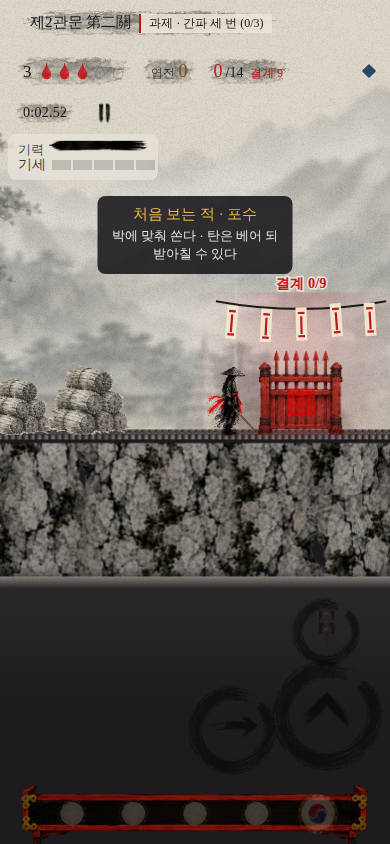
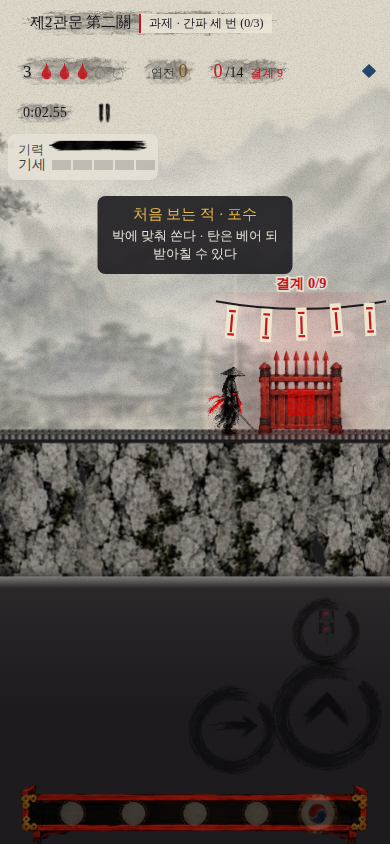
Rest stage peddler sells breath for coin, boss unstick in arena, steeper tree costs, fix 비급첩 seal screen, sparser ink-toned props, pet sheet white edges cleaned
Claude-Session: https://claude.ai/code/session_01Rc1cVb1vkCQfdutHoe7fgf

Changed region(s): [[0.0, 0.4313, 0.3385, 0.5237], [0.1538, 0.1232, 0.1846, 0.154]]

diff --git a/js/game.js b/js/game.js
@@ -2,7 +2,7 @@
 (() => {
 "use strict";
 const T = 32;
-const ASSET_V = "141";   // bump when any picture changes: the service worker then fetches the new json and webp together
+const ASSET_V = "142";   // bump when any picture changes: the service worker then fetches the new json and webp together
 const $ = id => document.getElementById(id);
 const cv = $("cv"); let ctx = cv.getContext("2d", { alpha: false });   // let: the ground is baked by pointing ctx at an offscreen canvas for a moment   // opaque canvas: cheaper to composite on phones
 let W = 0, H = 0, DPR = 1, SCALE = 1;
@@ -952,17 +952,17 @@ function loadMap(map, pal, hints) {
       const set = MD_PROPS[lv.md], sh = "md" + lv.md, big = set.filter(o => o[2] === "b"), small = set.filter(o => o[2] !== "b");
       const busy = [[lv.start && lv.start.x, 4], [lv.exit && lv.exit.x, 4], ...lv.cps.map(c => [c.x, 2]), ...lv.defs.map(d => [d.tx * T + 16, 2]), ...lv.chests.map(c => [c.x, 3]), ...lv.lamps.map(l => [l.x, 2])].filter(v => v[0] != null);
       const freeAt = x => !busy.some(([b, r]) => Math.abs(b - (x * T + 16)) < r * T);
-      for (let x = 4, last = -99; x < w - 6; x++) {
+      let scenes = 0; for (let x = 4, last = -99; x < w - 6; x++) {
         const y = surf(x, 1); if (y < 0) continue; let n = 0; while (x + n < w && surf(x + n, 1) === y && tile(x + n, y - 1) === 0 && tile(x + n, y - 2) === 0) n++;
-        if (n < 5 || x - last < 9 || rnd() > .8) { x += Math.max(0, n - 1); continue; }
+        if (n < 6 || x - last < 24 || scenes >= 3 || rnd() > .55) { x += Math.max(0, n - 1); continue; }   // a few quiet scenes per gate, never a clutter
         const wallR = tile(x + n, y - 1) === 1, wallL = tile(x - 1, y - 1) === 1, toR = wallR || (!wallL && rnd() < .5);   // lean the scene against the rock if one side rises
         const cand = []; for (let k = 1; k < n - 1; k++) cand.push(toR ? x + n - 1 - k : x + k);
-        const pick = [big.length && rnd() < .8 ? big[(rnd() * big.length) | 0] : null, small[(rnd() * small.length) | 0], rnd() < .45 ? small[(rnd() * small.length) | 0] : null].filter(Boolean);
+        const pick = [big.length && rnd() < .7 ? big[(rnd() * big.length) | 0] : small[(rnd() * small.length) | 0], rnd() < .35 ? small[(rnd() * small.length) | 0] : null].filter(Boolean);
         let placed = 0, ci = 0;
         for (const [i, hh] of pick) { const H = Math.round(hh * (1.1 + rnd() * .25)), wt = Math.max(1, Math.round((SPR[sh] && SPR[sh].f[i] ? SPR[sh].f[i].w * H / SPR[sh].f[i].h : H * .8) / T * .55));
           while (ci < cand.length && !freeAt(cand[ci])) ci++; if (ci >= cand.length) break;
           if (put(sh, i, cand[ci], y, H, { flip: rnd() < .5 })) placed++; ci += wt + 1; }
-        if (placed) last = x + n; x += n - 1; } }
+        if (placed) { last = x + n; scenes++; } x += n - 1; } }
     for (let y = 2; y < h - 4; y++) for (let x = 2; x < w - 6; x++) { // paper lanterns strung under roofs
       let n = 0; while (x + n < w && tile(x + n, y) === 1 && tile(x + n, y + 1) === 0 && tile(x + n, y + 2) === 0 && tile(x + n, y + 3) === 0) n++;
       ;
@@ -1121,10 +1121,10 @@ function saveRun() { if (run && mode !== "tutorial") store.set("run", run); }
 function showInterlude() {
   state = "interlude"; hubNear = null; $("bAct").hidden = true;
   const md = MADANG[MD(run.m)], jd = Music.JANGDAN[md.jd];
-  const sg = stageOf(run.m), road = !run.tower && (run.node === "rest" || run.node === "event"); $("iOrd").textContent = road ? (run.node === "rest" ? "쉼터 · 주막" : "기연") : (run.node === "elite" && !isFinal() ? "험로 · " : "") + sg.ko; $("iOrd").dataset.han = sg.han;   // the reading large in the brush face, the hanja small beneath
+  const sg = stageOf(run.m), road = !run.tower && (run.node === "rest" || run.node === "event"); $("iOrd").textContent = road ? (run.node === "rest" ? "쉼터 · 장터" : "기연") : (run.node === "elite" && !isFinal() ? "험로 · " : "") + sg.ko; $("iOrd").dataset.han = sg.han;   // the reading large in the brush face, the hanja small beneath
   const om = OMENS.find(o => o.id === run.omen);
   const bk = isFinal() && BOSSES[bossKindOf(run)];
-  $("iLine").textContent = road ? (run.node === "rest" ? "주막 불빛이 보인다. 잠시 숨을 고르고 가자." : "길가에 누군가 서 있다.") : run.m === 0 && run.cycle ? SEASON[season()].line : bk ? `${bk.line} ${josa(bk.name, "을", "를")} 베면 그 뒤에 천고가 있다.` : md.line;
+  $("iLine").textContent = road ? (run.node === "rest" ? "보부상이 짐을 풀었다. 엽전으로 숨을 사 가자." : "길가에 누군가 서 있다.") : run.m === 0 && run.cycle ? SEASON[season()].line : bk ? `${bk.line} ${josa(bk.name, "을", "를")} 베면 그 뒤에 천고가 있다.` : md.line;
   $("iMeta").textContent = ((run.cycle || 0) ? `${run.cycle + 1}번째 판 · ${SEASON[season()].name} · ` : "") + `${sg.ko} (${ORD[run.m]} 관문) · ` + jd.name + " · " + "●".repeat(Math.max(0, Math.min(20, run.breath | 0))) + "○".repeat(Math.max(0, 3 - (run.breath | 0))) + (om && !om.calm ? " · 징조 " + om.name : "");
   $("interlude").classList.remove("night");
   if (run.tower) { // 천고탑: every floor is a guardian's stage, crowded, with all the omens gathered so far
@@ -1312,7 +1312,7 @@ function madangClear() {
 // 수련: a real skill tree. Each cleared gate gives 수련점; spend them on the weapon's tree (a node opens the next along its branch),
 // or on a shared 비급 for the 방어·간파·이동 slots. Unspent points are kept.
 const SP_GAIN = TUNING.SP_GAIN;
-const spCost = c => c.merge || c.tier >= 4 ? 2 : 1;   // a step a point; the branch's last step and a 합류 take two
+const spCost = c => c.merge ? 3 : [1, 1, 2, 2, 3][c.tier] || 1;   // deeper steps cost more: a branch to its end is 8 points, the whole tree 31 — a run walks one branch out and a little more
 function showChoice(kind) {   // kind: "madang" after a cleared gate, "cycle" after cutting 천고, "bonus", "tower", or "pause" (spending from the pause menu)
   const done = () => {
     run.choosing = null; $("choice").classList.remove("tree");
@@ -1339,7 +1339,7 @@ function showChoice(kind) {   // kind: "madang" after a cleared gate, "cycle" af
   $("chTitle").textContent = "수련"; $("choice").classList.remove("route", "wpick"); $("choice").classList.add("tree"); document.querySelectorAll(".route-trail,.ch-held").forEach(o => o.remove());
   $("chMadang").textContent = kind === "pause" ? "멈춤 · 수련" : kind === "tower" ? `천고탑 ${run.floor - 1}층을 넘었다` : kind === "cycle" ? `천고를 베었다 · ${(run.cycle || 0) + 1}번째` : kind === "bonus" ? "징조의 대가" : run.cleared === "rest" ? "쉼터 · 수련" : run.cleared === "event" ? "기연" : `${josa(stageOf(run.m - 1).ko, "을", "를")} 넘었다`;
   const box = $("cards"); box.innerHTML = "";
-  const sp = document.createElement("div"); sp.className = "tr-sp"; sp.innerHTML = `수련점 <b>${"●".repeat(run.sp || 0) || "－"}</b><small>1·2·3단 1점 · 4단·합류 2점 · 갈래 끝(4단)을 익히면 천고난무가 오의로</small>`; box.appendChild(sp);
+  const sp = document.createElement("div"); sp.className = "tr-sp"; sp.innerHTML = `수련점 <b>${"●".repeat(run.sp || 0) || "－"}</b><small>뿌리·1단 1점 · 2·3단 2점 · 4단·합류 3점 · 갈래 끝(4단)을 익히면 천고난무가 오의로</small>`; box.appendChild(sp);
   const wrap = document.createElement("div"); wrap.className = "tr-wrap"; box.appendChild(wrap);
   const graph = document.createElement("div"); graph.className = "tr-graph"; const side = document.createElement("div"); side.className = "tr-side"; wrap.append(graph, side);
   let sel = null;
@@ -1391,7 +1391,7 @@ function showChoice(kind) {   // kind: "madang" after a cleared gate, "cycle" af
 const ROUTE = {
   gate: { name: "관문", han: "關", desc: "짧은 관문 하나 · 넘으면 수련점" },
   elite: { name: "험로", han: "險", desc: "정예가 몰린 더 짧은 길 · 수련점 하나 더, 혼 +20, 천고 기운" },
-  rest: { name: "쉼터", han: "息", desc: "싸우지 않고 숨을 고른다 · 수련점 없음\n쉬는 사이 다음 관문에 적이 모인다" },
+  rest: { name: "쉼터", han: "息", desc: "보부상에게 엽전으로 숨·부적·수련서를 산다 · 수련점 없음" },
   event: { name: "기연", han: "緣", desc: "무엇을 만날지 모른다 · 수련점 없음\n얻는 만큼 대가가 따른다" } };
 function nextStep() {
   if (run.tower || run.m <= 0) { showInterlude(); return; }
@@ -1436,10 +1436,11 @@ function buildRoadMap() { const rows = []; for (let y = 0; y < 16; y++) rows.pus
 function setupRoad() { // the small road stage: set dressing, one person to talk to, a gate out on the right
   const put = (sheet, i, tx, h, flip) => LV.dress.push({ sheet, i, x: tx * T + 16, y: 12 * T + 2, h, flip: !!flip, ay: 1 });
   let who;
-  if (run.node === "rest") { put("npc", 6, 9, 112); put("npc", 5, 15, 58); put("npc", 7, 26, 52); put("props2", P2.brazier, 5, 34); who = "jumo"; }
+  if (run.node === "rest") { put("npc", 6, 9, 112); put("npc", 7, 26, 52); put("props2", P2.brazier, 5, 34); put("props2", P2.sacks, 17, 34); put("props2", P2.rack, 21, 44);   // 쉼터: no free rest now — the 보부상 sells breath for 엽전
+    LV.stations = [{ id: "shop", tx: 19, h: 48, name: "보부상", act: "장터" }]; return; }
   else { const ev = run.eventId || "well"; who = EVENT_NPC[ev]; put("npc", 8, 11, 100); put("props", PROP.stoneLantern, 25, 44); if (who !== "spring") put("props", PROP.jars, 6, 30); }
   const n = NPC[who]; put("npc", n.i, 19, who === "spring" ? 54 : 64, n.flip); LV.stations = [{ id: "npc", who, tx: 19, h: 64, name: n.name, act: run.talked ? "인사" : "이야기" }];
-  if (run.node === "rest") { put("props2", P2.sacks, 27, 34); put("props2", P2.rack, 29, 44); LV.stations.push({ id: "shop", tx: 28, h: 48, name: "보부상", act: "장터" }); }   // 장터: spend the run's 엽전
+
 }
 function resumeStage() { state = "play"; showScreen(null); Music.resume(); hubNear = null; if (LV && LV.stations) for (const s of LV.stations) s.act = "인사"; hubPrompt(); }
 function stageAct(st) {
@@ -1473,9 +1474,9 @@ function addCoin(n, x, y) { if (!run || mode === "tutorial" || run.hub || !n) re
 const treasure = id => !!(run && run.treasure === id);
 // wares: consumables act at once; one 보물 is carried for the rest of the run (a new one replaces it). `hon` = opened at the 대장간 first
 const WARES = [
-  { id: "pill", name: "환약", han: "丸藥", desc: "숨 하나를 되찾는다", price: 30, ok: () => run.breath < breathCap(), go: () => { run.breath++; setHud(); } },
+  { id: "pill", name: "환약", han: "丸藥", desc: "숨 하나를 되찾는다 (살 때마다 비싸진다)", price: () => 25 + 15 * (run.pillN || 0), ok: () => run.breath < breathCap(), go: () => { run.breath++; run.pillN = (run.pillN || 0) + 1; setHud(); } },
   { id: "charm", name: "부적", han: "符", desc: "다음 한 대를 막는다 (둘까지 지닌다)", price: 22, ok: () => (run.charm || 0) < 2, go: () => { run.charm = (run.charm || 0) + 1; } },
-  { id: "sp", name: "수련서", han: "修鍊書", desc: "수련점 하나 (살 때마다 비싸진다)", price: () => 45 + 20 * (run.spBought || 0), ok: () => true, go: () => { run.sp = (run.sp || 0) + 1; run.spBought = (run.spBought || 0) + 1; } },
+  { id: "sp", name: "수련서", han: "修鍊書", desc: "수련점 하나 (살 때마다 비싸진다)", price: () => 60 + 30 * (run.spBought || 0), ok: () => true, go: () => { run.sp = (run.sp || 0) + 1; run.spBought = (run.spBought || 0) + 1; } },
   { id: "powder", name: "화약통", han: "火藥", desc: "다음 관문을 천고 기운 가득 차서 시작한다", price: 25, hon: 60, ok: () => !run.qiStart, go: () => { run.qiStart = 100; } },
   { id: "bok", name: "복주머니", han: "福囊", desc: "보물 · 엽전을 절반 더 얻는다", price: 40, treasure: true },
   { id: "drumstick", name: "북채", han: "鼓棒", desc: "보물 · 천고 기운이 25% 빨리 찬다", price: 55, treasure: true, hon: 90 },
@@ -3220,6 +3221,8 @@ function stepBoss(e, dt, pcx, pcy, dist, live) {
         else { e.nextAt = e.hitAt + (gap + 1) * bl; e.recoverUntil = e.nextAt; const rg = e.raged || e.hp <= e.maxHp / 2; e.comboLeft = rg ? (e.rng() < .35 ? 3 : e.rng() < .7 ? 2 : 1) : (e.rng() < .3 ? 2 : e.rng() < .65 ? 1 : 0); } }
     }
   }
+  if (LV.seal) { const lo = (LV.seal.x0 + 1) * T + 2, hi = LV.seal.x1 * T - e.w - 2; if (e.x < lo) { e.x = lo; if (e.vx < 0) e.vx = 0; if (e.svx < 0) e.svx = 0; } if (e.x > hi) { e.x = hi; if (e.vx > 0) e.vx = 0; if (e.svx > 0) e.svx = 0; } }   // never into the barrier
+  if (!B.fly && !e.hidden && rectSolid(e.x, e.y, e.w, e.h)) unstick(e);   // a leap or a charge that ends in rock is set back in the open
   ecx = e.x + e.w / 2;
   if (live && !e.hidden && !e.air && !(e.chargeT > 0) && !(e.swoopT > 0) && !(e.danceT > 0) && overlap(e, P) && P.dashT <= 0) { P.vx = Math.sign(pcx - ecx || 1) * 320; if (!P.onGround) P.vy = Math.min(P.vy, -120); }   // bulk shoves you back
   if (!e.hidden) dashThrough(e);
@@ -3437,7 +3440,7 @@ function fmt(t) { const m = Math.floor(t / 60), s = t - m * 60; return m + ":" +
 function setHud() {
   document.body.classList.toggle("night", !!(LV && LV.pal.night));
   if (mode === "tutorial") { $("hMadang").textContent = "수련터"; $("hJang").textContent = Music.JANGDAN[TUTORIAL.jd].name; }
-  else { const om = OMENS.find(o => o.id === run.omen); $("hMadang").textContent = !run.tower && run.node === "rest" ? "쉼터 · 주막" : !run.tower && run.node === "event" ? "기연" : (run.node === "elite" && !isFinal() ? "험로 · " : "") + stageName(run.m); $("hJang").textContent = Music.JANGDAN[MADANG[MD(run.m)].jd].name + (om ? " · " + om.name : ""); }
+  else { const om = OMENS.find(o => o.id === run.omen); $("hMadang").textContent = !run.tower && run.node === "rest" ? "쉼터 · 장터" : !run.tower && run.node === "event" ? "기연" : (run.node === "elite" && !isFinal() ? "험로 · " : "") + stageName(run.m); $("hJang").textContent = Music.JANGDAN[MADANG[MD(run.m)].jd].name + (om ? " · " + om.name : ""); }
   const hb = $("hBreath"); hb.innerHTML = ""; hb.classList.toggle("inf", mode === "tutorial");
   if (mode !== "tutorial") { const lostNow = (hb.dataset.b != null && +hb.dataset.b > run.breath) ? +hb.dataset.b : -1;   // the 숨 just lost bursts red, and the row shakes
     for (let i = 0; i < Math.max(breathCap(), run.breath); i++) { const d = document.createElement("i"); if (i >= run.breath) d.className = "lost" + (i < lostNow ? " gone" : ""); hb.appendChild(d); }
@@ -4596,24 +4599,21 @@ function sealScreen(after, title, sub) {   // after: where to go once sealed or 
   const name = document.createElement("input"); name.className = "bd-name"; name.maxLength = 12; name.value = `제${(META.firsts.bookN || 0) + 1}첩`;
   const chips = document.createElement("div"); chips.className = "chips";
   const info = document.createElement("small");
-  const draw = () => { chips.innerHTML = "";
-    for (const id of rest) { const c = document.createElement("button"); c.className = "chip" + (pick.has(id) ? " on" : ""); c.textContent = `${kindOf(id)} · ${perkName(id)}`;
-      c.addEventListener("click", () => {
-        if (pick.has(id)) pick.delete(id);
-        else if (nK(kindOf(id)) < SLOT[kindOf(id)]) pick.add(id); else toast(`${kindOf(id)} 비급은 ${SLOT[kindOf(id)]}개까지`); draw(); }); chips.appendChild(c); }
-    info.textContent = `${SLOT_ORDER.map(k => `${k} ${nK(k)}/${SLOT[k]}`).join(" · ")} · ${WEAPONS[r.weapon || "hwando"].name}${r.oath ? " · " + OATHS.find(o => o.id === r.oath).name : ""}`; };
+  const draw = () => { chips.innerHTML = "";   // the whole tree walked this run goes in as it is: nothing to pick, nothing to count
+    for (const id of rest) { const c = document.createElement("span"); c.className = "chip on"; c.textContent = perkName(id); chips.appendChild(c); }
+    const F = r.form && FORMS[r.weapon]; info.textContent = `${WEAPONS[r.weapon || "hwando"].name}${F && F.id === r.form ? " · " + F.name : ""} · 수련 ${rest.length}개${r.oath ? " · " + OATHS.find(o => o.id === r.oath).name : ""}`; };
   draw();
   const save = (replace) => {
-    const bk = { id: Date.now().toString(36), name: name.value.trim() || "이름 없는 첩", weapon: r.weapon || "hwando", oath: r.oath || null, char: r.char || "mumyeong", simbeop: r.simbeop || null, perks: [...pick], best: 0, made: todayKey() };
+    const bk = { id: Date.now().toString(36), name: name.value.trim() || "이름 없는 첩", weapon: r.weapon || "hwando", form: r.form || null, oath: r.oath || null, char: r.char || "mumyeong", simbeop: r.simbeop || null, perks: [...pick], best: 0, made: todayKey() };
     if (replace != null) META.books.splice(replace, 1, bk); else META.books.push(bk);
-    META.firsts.bookN = (META.firsts.bookN || 0) + 1; saveMeta(); sealable = null; $("bSeal").hidden = true; toast(`「${bk.name}」를 봉인했다`);
+    META.firsts.bookN = (META.firsts.bookN || 0) + 1; saveMeta(); sealable = null; $("bSeal").hidden = true; toast(`「${bk.name}」에 담았다`);
     if (typeof gainStroke === "function") gainStroke("seal"); if (after) after(); else toMenu();
   };
   const rows = [name, chips, info];
   if (META.books.length >= shelfCap()) { const t = document.createElement("small"); t.textContent = "비급첩을 둘 자리가 없다. 하나를 골라 덮어쓴다."; rows.push(t);
     META.books.forEach((bk, i) => rows.push(bdRow(bk.name, bookLine(bk), null, "덮어쓰기", () => save(i)))); }
   const skip = () => { if (after) { sealable = null; after(); } else showScreen("result"); };
-  board(title || "비급첩에 봉인", sub || "이 판의 빌드에서 핵심만 골라 담는다", rows, META.books.length >= shelfCap() ? [[after ? "담지 않고 다시 시작" : "그만두기", skip]] : [["봉인", () => save(null), true], [after ? "담지 않고 다시 시작" : "그만두기", skip]]);
+  board(title || "비급첩에 담기", sub || "이 판에 익힌 수련을 그대로 담아, 천고탑에서 처음부터 이 빌드로 오른다", rows, META.books.length >= shelfCap() ? [[after ? "담지 않고 다시 시작" : "그만두기", skip]] : [["봉인", () => save(null), true], [after ? "담지 않고 다시 시작" : "그만두기", skip]]);
 }
 // 천고탑: pick a 비급첩, then climb until the breath runs out
 function towerScreen() {
@@ -4626,7 +4626,7 @@ function towerScreen() {
 function startTower(bk) {
   if (hubOn) leaveHub();
   run = { tower: true, book: bk.id, seed: (Math.random() * 2 ** 32) >>> 0, dateKey: todayKey(), m: LAST_M, floor: 1, cycle: 0, cp: -1, dead: [],
-    breath: Math.min(oath2cap(bk.oath), 3), time: 0, deaths: 0, kills: 0, strikes: 0, slashes: 0, perks: fitPerks(bk.perks), weapon: bk.weapon, oath: bk.oath, char: bk.char || "mumyeong", simbeop: bk.simbeop || null, omens: [], cutDrums: [] };
+    breath: Math.min(oath2cap(bk.oath), 3), time: 0, deaths: 0, kills: 0, strikes: 0, slashes: 0, perks: fitPerks(bk.perks), weapon: bk.weapon, form: bk.form || null, oath: bk.oath, char: bk.char || "mumyeong", simbeop: bk.simbeop || null, omens: [], cutDrums: [] };
   mode = "tower"; saveRun();
   if (META.ended && typeof upPicks === "function") upPicks(() => { saveRun(); showInterlude(); }); else showInterlude();
 }
@@ -5098,7 +5098,7 @@ function sealMap() { // 봉인 지도: the ten guardians on the painted land, a 
     m.className = "seal-pt" + (ok ? " on" : ""); m.style.left = x + "%"; m.style.top = y + "%"; m.innerHTML = `<i>${ok ? B.han.slice(0, 2) : "？"}</i><span>${ok ? B.name : "？？？"}</span>`;
     m.addEventListener("click", () => { Music.sfx("hook"); lore.textContent = ok ? `${B.name} ${B.han} — ${BOSS_LORE[k] || B.line}` : "아직 봉인하지 못한 수문장 · 산문에서 고르면 천고대에서 만난다"; }); map.appendChild(m); }
   rows.push(map, lore);
-  const nx = SEAL_MILESTONE.find(m => m.n > sealedN()); rows.push(bdRow(`봉인 ${sealedN()} / ${SEAL_KINDS.length}`, nx ? `${nx.n}을 봉인하면 · ${nx.text}` : "모든 수문장을 봉인했다"));
+  const nx = SEAL_MILESTONE.find(m => m.n > sealedN()); rows.push(bdRow(`봉인 ${sealedN()} / ${SEAL_KINDS.length}`, nx ? `봉인 ${nx.n}에 이르면 · ${nx.text}` : "모든 수문장을 봉인했다"));
   board("봉인 지도", "천고를 멈춘 땅의 열 수문장", rows, [["돌아가기", resumeHub]]);
 }
 function formScreen() { // 무기 형: one more way to hold each weapon you own

diff --git a/index.html b/index.html
@@ -11,8 +11,8 @@
 <meta name="apple-mobile-web-app-status-bar-style" content="black-translucent">
 <meta name="apple-mobile-web-app-title" content="천고">
 <link rel="manifest" href="manifest.webmanifest">
-<link rel="icon" href="icons/icon-192.png?v=10142400">
-<link rel="apple-touch-icon" href="icons/apple-touch-icon.png?v=10142400">
+<link rel="icon" href="icons/icon-192.png?v=10142500">
+<link rel="apple-touch-icon" href="icons/apple-touch-icon.png?v=10142500">
 <link rel="preconnect" href="https://fonts.googleapis.com">
 <link rel="preconnect" href="https://fonts.gstatic.com" crossorigin>
 <link rel="stylesheet" href="https://fonts.googleapis.com/css2?family=Song+Myung&display=swap">
@@ -20,7 +20,7 @@
 <link rel="stylesheet" href="https://fonts.googleapis.com/css2?family=Nanum+Myeongjo&display=swap&text=%E4%B8%80%E4%B8%89%E4%B8%8A%E4%B8%8B%E4%B8%8D%E4%B8%99%E4%B8%9E%E4%B8%AD%E4%B8%B8%E4%B8%B9%E4%B8%BB%E4%B9%99%E4%B9%9D%E4%BA%82%E4%BA%8C%E4%BA%94%E4%BA%95%E4%BA%AD%E4%BF%83%E4%BF%AE%E5%81%87%E5%81%9C%E5%83%A7%E5%85%89%E5%85%A5%E5%85%A9%E5%85%AD%E5%85%B5%E5%85%B7%E5%86%A4%E5%86%B6%E5%86%B7%E5%87%8C%E5%88%80%E5%88%83%E5%88%86%E5%88%87%E5%88%91%E5%88%9D%E5%88%BA%E5%89%9B%E5%8A%8D%E5%8A%9B%E5%8A%9F%E5%8B%95%E5%8B%9D%E5%8B%A2%E5%8D%83%E5%8D%B4%E5%8D%B7%E5%8E%84%E5%8F%8D%E5%8F%A3%E5%8F%AF%E5%90%8D%E5%90%B8%E5%91%B5%E5%91%BD%E5%9B%9B%E5%9B%9E%E5%9C%B0%E5%9D%90%E5%A0%82%E5%A1%94%E5%A1%9E%E5%A2%83%E5%A2%93%E5%A2%9C%E5%A3%81%E5%A3%87%E5%A3%9E%E5%A4%A7%E5%A4%A9%E5%A4%B7%E5%A5%A7%E5%A5%AA%E5%A5%B3%E5%A6%99%E5%AD%97%E5%AD%A4%E5%AE%88%E5%AE%97%E5%AF%82%E5%AF%9E%E5%B0%84%E5%B0%87%E5%B0%8E%E5%B0%BE%E5%B1%88%E5%B1%B1%E5%B6%BA%E5%B7%AB%E5%B7%AE%E5%B8%B3%E5%B8%B6%E5%B9%95%E5%B9%B3%E5%B9%BB%E5%BA%AB%E5%BC%93%E5%BC%95%E5%BD%88%E5%BD%B1%E5%BE%8B%E5%BE%90%E5%BE%91%E5%BF%83%E5%BF%85%E5%BF%B5%E6%80%92%E6%80%A5%E6%81%AF%E6%87%89%E6%88%90%E6%88%B0%E6%88%BF%E6%89%80%E6%89%87%E6%89%8B%E6%89%93%E6%8B%8D%E6%8B%94%E6%8C%81%E6%8D%AE%E6%8E%A5%E6%8E%A8%E6%8F%9B%E6%93%8A%E6%94%B6%E6%95%A3%E6%96%A4%E6%96%AC%E6%96%B7%E6%97%8B%E6%98%87%E6%98%8E%E6%98%9F%E6%9A%B4%E6%9B%89%E6%9B%B8%E6%9C%88%E6%9C%9B%E6%9C%AC%E6%9D%BF%E6%9E%97%E6%A1%B6%E6%A2%85%E6%A2%AF%E6%A5%AD%E6%A7%8C%E6%A7%8D%E6%A8%93%E6%A9%9F%E6%AD%A2%E6%AD%A3%E6%AD%A5%E6%AD%A6%E6%AD%B8%E6%AD%BB%E6%AE%98%E6%AE%BA%E6%AE%BF%E6%B0%A3%E6%B0%B4%E6%B1%BA%E6%B3%89%E6%B3%95%E6%B4%BE%E6%B5%81%E6%B7%B1%E6%B7%B5%E6%B8%A1%E6%BA%96%E6%BB%85%E6%BB%91%E6%BB%BF%E6%BD%9B%E6%BF%83%E6%BF%A4%E7%81%AB%E7%82%8E%E7%82%B8%E7%83%8F%E7%84%A1%E7%84%B0%E7%85%99%E7%85%A7%E7%86%9F%E7%86%B1%E7%87%92%E7%87%95%E7%88%86%E7%89%8C%E7%8B%82%E7%8B%90%E7%8B%99%E7%8D%A8%E7%8D%AC%E7%8E%84%E7%8E%8B%E7%92%B0%E7%94%95%E7%94%9F%E7%94%B0%E7%94%B2%E7%96%BE%E7%99%BB%E7%99%BC%E7%99%BD%E7%9B%9F%E7%9B%A1%E7%9B%B8%E7%9C%8B%E7%9C%BC%E7%9D%80%E7%9E%AC%E7%9F%AD%E7%9F%B3%E7%A0%B2%E7%A0%B4%E7%A2%91%E7%A5%9E%E7%A5%A0%E7%A7%98%E7%A9%BA%E7%AA%81%E7%AA%9F%E7%AB%B9%E7%AC%88%E7%AC%A6%E7%AC%AC%E7%AD%92%E7%AE%A1%E7%AE%AD%E7%B4%85%E7%B5%82%E7%B5%90%E7%B5%B2%E7%B5%B6%E7%B6%AD%E7%B6%B2%E7%B6%B5%E7%B7%A3%E7%B7%B4%E7%B8%9B%E7%B8%AE%E7%B9%A9%E7%BA%8C%E7%BD%A1%E7%BD%AE%E7%BE%85%E7%BE%A9%E7%BF%94%E7%BF%BC%E8%81%B2%E8%83%8E%E8%84%9A%E8%87%BA%E8%88%9E%E8%8A%B1%E8%90%AC%E8%90%BD%E8%93%84%E8%97%A5%E8%99%8E%E8%99%95%E8%99%9B%E8%99%9F%E8%9E%AD%E8%A1%80%E8%A1%8C%E8%A1%93%E8%A1%9D%E8%A1%A3%E8%A2%96%E8%A3%82%E8%A5%B2%E8%A6%81%E8%A7%92%E8%A7%A3%E8%AA%93%E8%AA%98%E8%AA%BF%E8%AD%B7%E8%B0%B7%E8%B1%B8%E8%B3%AD%E8%B5%A4%E8%B5%B0%E8%B6%8A%E8%B6%B3%E8%B7%9D%E8%B7%A1%E8%B7%AF%E8%B7%B3%E8%B8%8F%E8%BA%8D%E8%BA%AB%E8%BB%8A%E8%BB%8D%E8%BC%95%E8%BC%AA%E8%BF%8E%E8%BF%91%E8%BF%94%E8%BF%BD%E9%80%86%E9%80%90%E9%80%9F%E9%80%A3%E9%81%8E%E9%81%A0%E9%82%84%E9%87%8C%E9%87%8D%E9%87%91%E9%88%B4%E9%8A%80%E9%8A%83%E9%8D%8A%E9%8D%9B%E9%8E%96%E9%8E%AD%E9%8F%A1%E9%90%B5%E9%95%B7%E9%96%80%E9%96%83%E9%96%93%E9%96%A3%E9%97%9C%E9%98%B2%E9%99%8D%E9%99%A3%E9%99%A4%E9%9A%AA%E9%9B%99%E9%9B%A2%E9%9B%A8%E9%9B%B2%E9%9B%B6%E9%9B%B7%E9%9B%BB%E9%9C%86%E9%9C%87%E9%9C%A7%E9%9C%B9%E9%9D%82%E9%9D%88%E9%9D%91%E9%9D%9C%E9%9D%A2%E9%A2%A8%E9%A3%9B%E9%A3%9F%E9%A6%99%E9%A6%AC%E9%A8%B0%E9%AA%A8%E9%AC%BC%E9%AD%82%E9%AD%9A%E9%B3%A5%E9%B3%B6%E9%B5%B2%E9%B6%B4%E9%B7%B9%E9%BB%91%E9%BC%93%E9%BD%8A%E9%BE%8D">
 <link rel="preload" as="image" href="assets/load-wide.webp" media="(orientation: landscape)">
 <link rel="preload" as="image" href="assets/load-tall.webp" media="(orientation: portrait)">
-<link rel="stylesheet" href="style.css?v=10142400">
+<link rel="stylesheet" href="style.css?v=10142500">
 <link rel="preload" as="image" href="assets/ld-bg-wide.webp" media="(orientation: landscape)"><link rel="preload" as="image" href="assets/ld-bg-tall.webp" media="(orientation: portrait)">
 </head>
 <body>
@@ -180,11 +180,11 @@
   (ld.querySelector(".ld-in") || ld).appendChild(b); }
   window.addEventListener("error", function () { setTimeout(rescue, 1500); }); setTimeout(rescue, 25000); })();
 </script>
-<script src="js/tuning.js?v=10142400"></script>
-<script src="js/content.js?v=10142400"></script>
-<script src="js/data.js?v=10142400"></script>
-<script src="js/music.js?v=10142400"></script>
-<script src="js/game.js?v=10142400"></script>
+<script src="js/tuning.js?v=10142500"></script>
+<script src="js/content.js?v=10142500"></script>
+<script src="js/data.js?v=10142500"></script>
+<script src="js/music.js?v=10142500"></script>
+<script src="js/game.js?v=10142500"></script>
 <script>
 if ("serviceWorker" in navigator && (location.protocol === "https:" || location.hostname === "localhost")) {
   window.addEventListener("load", () => navigator.serviceWorker.register("sw.js", { updateViaCache: "none" }).then(r => r.update()).catch(() => {}));

diff --git a/_review/r62b_sealvp.js b/_review/r62b_sealvp.js
@@ -1,0 +1,11 @@
+const { open } = require('./lib');
+(async () => { for (const [tag, vp, mobile] of [['land', { width: 844, height: 390 }, true], ['port', { width: 390, height: 844 }, true], ['pc', { width: 1280, height: 720 }, false]]) {
+  const { b, p, errs } = await open({ vp, mobile, run: null });
+  await p.evaluate(() => { const C = {}; for (const k of ['gumiho', 'sumun', 'baekho', 'dokkaebi']) C[k] = { kills: 1, marks: [] }; __dbg.META.codex = C; __dbg.META.runN = 5; });
+  await p.evaluate(() => { const b = [...document.querySelectorAll('button')].find(b => /거점|산중|들어/.test(b.textContent) && b.offsetParent); if (b) b.click(); }); await p.waitForTimeout(2000);
+  await p.evaluate(() => __dbg.tp(18, 9)); await p.waitForTimeout(500); await p.evaluate(() => __dbg.hubAct()); await p.waitForTimeout(400);
+  await p.evaluate(() => { const r = [...document.querySelectorAll('#bdBody .bd-row')].find(r => /봉인 지도/.test(r.textContent)); r.querySelector('button').click(); }); await p.waitForTimeout(600);
+  const ov = await p.evaluate(() => { const pts = [...document.querySelectorAll('.seal-pt')].map(e => e.getBoundingClientRect()), m = document.querySelector('.seal-map').getBoundingClientRect(); let o = 0;
+    for (let i = 0; i < pts.length; i++) for (let j = i + 1; j < pts.length; j++) { const a = pts[i], c = pts[j]; if (a.left < c.right && c.left < a.right && a.top < c.bottom && c.top < a.bottom) o++; }
+    const out = pts.filter(r => r.left < m.left - 2 || r.right > m.right + 2 || r.top < m.top - 2 || r.bottom > m.bottom + 2).length; return { o, out, mw: m.width | 0, mh: m.height | 0 }; });
+  await p.screenshot({ path: `_review/shots/sealmap_${tag}.png` }); console.log(tag, ov, errs); await b.close(); } })();

diff --git a/style.css b/style.css
@@ -553,7 +553,7 @@ body.portrait #tip { top: calc(env(safe-area-inset-top, 0px) + 196px); }
 body.portrait #hCoin { order: 4; } body.portrait.ui-ready #hCoin { padding-inline: 9px; }
 #hCoin { color: #17161a; } #hCoin b { color: #7a5508; font-size: 18px; } #hCoin small { color: rgba(23,22,26,.78); font-size: 12px; }
 /* 봉인 지도 */
-.seal-map { position: relative; width: 100%; aspect-ratio: 16 / 9; max-height: 52vh; margin: 4px auto 6px; background: #e6dcc6 url("assets/sealmap.webp") center / 100% 100% no-repeat; border-radius: 6px; box-shadow: inset 0 0 0 1px rgba(23,22,26,.25), inset 0 0 40px rgba(60,48,30,.25); }
+.seal-map { position: relative; width: min(100%, calc(52vh * 16 / 9)); aspect-ratio: 16 / 9; margin: 4px auto 6px; background: #e6dcc6 url("assets/sealmap.webp") center / 100% 100% no-repeat; border-radius: 6px; box-shadow: inset 0 0 0 1px rgba(23,22,26,.25), inset 0 0 40px rgba(60,48,30,.25); }
 .seal-pt { position: absolute; transform: translate(-50%, -50%); display: grid; justify-items: center; gap: 2px; background: none; border: 0; padding: 0; cursor: pointer; font-family: var(--f-head); color: #17161a; }
 .seal-pt i { display: grid; place-items: center; width: clamp(26px, 5vmin, 40px); aspect-ratio: 1; border-radius: 4px; font-style: normal; font-size: clamp(11px, 2.2vmin, 16px); line-height: 1; border: 1.5px dashed rgba(23,22,26,.5); background: rgba(236,230,216,.7); color: rgba(23,22,26,.55); }
 .seal-pt.on i { border: 0; background: #b3141c; color: #f4ecdb; box-shadow: inset 0 0 0 2px rgba(244,236,219,.5); transform: rotate(-5deg); }

diff --git a/_review/r64_bossstuck.js b/_review/r64_bossstuck.js
@@ -1,0 +1,6 @@
+const { open, RUN } = require('./lib');
+(async () => { let stuck = 0, frames = 0; for (const seed of [8, 6, 2]) { const { b, p, errs } = await open({ vp: { width: 1000, height: 462 }, run: RUN('hwando', { m: 5, seed }) });
+  const bx = await p.evaluate(() => { const bs = __dbg.E.find(e => e.type === 'b'); return Math.round(bs.x / 32); }); await p.evaluate(([x]) => __dbg.tp(x - 8, 11), [bx]); await p.waitForTimeout(2500);
+  for (let i = 0; i < 40; i++) { await p.waitForTimeout(250); const r = await p.evaluate(() => { const P = __dbg.P; P.invT = 99; const bs = __dbg.E.find(e => e.type === 'b'); const L = __dbg.LV; const T = 32; let solid = false; for (let ty = Math.floor(bs.y / T); ty <= Math.floor((bs.y + bs.h - 1) / T); ty++) for (let tx = Math.floor(bs.x / T); tx <= Math.floor((bs.x + bs.w - 1) / T); tx++) if (__dbg.tileAt(tx, ty) === 1) solid = true; const s = L.seal; return { solid, out: s ? bs.x < s.x0 * T || bs.x + bs.w > (s.x1 + 1) * T : false, kind: bs.kind, hidden: bs.hidden }; });
+    frames++; if ((r.solid && !r.hidden) || r.out) stuck++; if (i === 0) console.log(seed, r.kind); }
+  console.log('errs', errs.length); await b.close(); } console.log('stuck frames', stuck, '/', frames); })();

diff --git a/_review/r57_shop.js b/_review/r57_shop.js
@@ -1,6 +1,6 @@
 const { open, RUN } = require('./lib');
 (async () => { const { b, p, errs } = await open({ vp: { width: 1000, height: 462 }, run: RUN('hwando', { m: 1, seed: 7, node: 'rest', coin: 120, breath: 2 }) });
-  await p.evaluate(() => __dbg.tp(28, 11)); await p.waitForTimeout(600);
+  await p.evaluate(() => __dbg.tp(19, 11)); await p.waitForTimeout(600);
   const near = await p.evaluate(() => __dbg.hub.hubNear && __dbg.hub.hubNear.st && __dbg.hub.hubNear.st.id);
   await p.evaluate(() => __dbg.hubAct()); await p.waitForTimeout(400);
   const rows = await p.evaluate(() => [...document.querySelectorAll('#bdBody .bd-row')].map(r => r.textContent.slice(0, 40)));

diff --git a/sw.js b/sw.js
@@ -1,6 +1,6 @@
 // 천고 service worker: network-first for the game files (so updates land on the next launch),
 // cache fallback for offline play, cache-first for Google Fonts.
-const CACHE = "chungo-v156";
+const CACHE = "chungo-v157";
 const ASSETS = "chungo-assets";   // pictures and sound: kept across versions, served at once, refreshed in the background
 const CORE = ["./", "index.html", "manifest.webmanifest",
   "icons/icon-192.png", "icons/icon-512.png", "icons/apple-touch-icon.png"];

diff --git a/_review/pet_cut.py b/_review/pet_cut.py
@@ -1,0 +1,31 @@
+# pet sheet: kill the white fringe/splatter at the edges (color-to-alpha vs white in an edge band), tone interior whites to paper
+import numpy as np, sys
+from PIL import Image
+from scipy import ndimage as nd
+src = sys.argv[1] if len(sys.argv) > 1 else 'assets/sprites/pet.webp'
+a = np.array(Image.open(src).convert('RGBA')).astype(float)
+rgb, al = a[..., :3], a[..., 3] / 255
+solid = al > .5
+dist = nd.distance_transform_edt(solid)            # px from the transparent outside
+band = np.clip((14 - dist) / 10, 0, 1) ** .7         # 1 at the rim, fading out by 14px
+# color-to-alpha against white: how much of this pixel is just white paper
+wa = (255 - rgb.min(2)) / 255                       # 0 = pure white
+wa = np.clip((wa - .04) / .6, 0, 1)
+na = al * (1 - band * (1 - wa))
+# small white specks (isolated splatter) go too
+lab, n = nd.label(solid)
+sizes = nd.sum(np.ones_like(al), lab, range(1, n + 1))
+small = np.isin(lab, np.where(sizes < 60)[0] + 1)
+bright = rgb.min(2) > 200
+na[small & bright] = 0
+# un-premultiply the rim so faded pixels keep their ink colour, not grey-white
+k = np.where(na > 0.01, np.clip(wa, .15, 1), 1)[..., None]
+col = np.where(band[..., None] > 0, 255 - (255 - rgb) / np.maximum(k, .15), rgb)
+col = np.clip(col, 0, 255)
+# interior whites → warm paper
+lum = col.mean(2, keepdims=True)
+paper = np.array([236, 226, 204.])
+t = np.clip((lum - 200) / 55, 0, 1)
+col = col * (1 - t) + (col * paper / 255) * t
+out = np.dstack([col, np.clip(na, 0, 1) * 255]).astype(np.uint8)
+Image.fromarray(out, 'RGBA').save('assets/sprites/pet.webp', 'WEBP', quality=92, method=6)

diff --git a/_review/map_cut.py b/_review/map_cut.py
@@ -24,9 +24,10 @@ def cut(name, maxh=240):
   safe = np.maximum(cta, 1e-3)[..., None]
   col = np.clip((a - 255 * (1 - safe)) / safe, 0, 255)
   # ink-wash grade: most of the colour drained to warm grey ink, a little kept, contrast eased so they sit in the painted world
-  lum = col.mean(2, keepdims=True); ink = lum * np.array([1.0, .97, .9]) * .92 + 8
-  col = col * .32 + ink * .68
-  col = 128 + (col - 128) * .9
+  # ink-wash grade, like the painted pines and rocks of the stage: almost all colour drained to warm grey ink,
+  # values pressed into the mid range so nothing glares white against the paper or the dark rock
+  lum = col.mean(2, keepdims=True); L2 = 58 + lum * .56; ink = L2 * np.array([1.0, .965, .9])
+  col = col * .12 * (L2 / np.maximum(lum, 1)) + ink * .88
   big = ndimage.binary_dilation(alpha > .05, iterations=5); lab, n = ndimage.label(big)
   objs = ndimage.find_objects(lab); areas = ndimage.sum(alpha > .05, lab, range(1, n + 1))
   keep = sorted([i for i in range(n) if areas[i] > 1500], key=lambda i: objs[i][1].start)
@@ -45,4 +46,4 @@ def cut(name, maxh=240):
   json.dump({"f": fr} if False else fr, open(f'/home/user/akane/assets/sprites/{name}.json', 'w'), separators=(',', ':'))
   pap = Image.new('RGBA', sheet.size, (200, 190, 170, 255)); pap.alpha_composite(sheet); pap.convert('RGB').save(f'{sys.argv[1]}/c_{name}.jpg')
   print(name, len(fr), [(f['w'], f['h']) for f in fr])
-for n in ['mapobj', 'md0', 'md1', 'md2', 'md3', 'md4']: cut(n)
+for n in ['md0', 'md1', 'md2', 'md3', 'md4']: cut(n)

diff --git a/GAME_REVIEW_REPORT.md b/GAME_REVIEW_REPORT.md
@@ -657,3 +657,12 @@
   - 이정표 보상: 3 봉인 혼 +100 / 6 봉인 혼 +200·조각 +1 / 10 봉인 혼 +300·조각 +3, 호 "봉인자".
   - 지도 그림 1장을 생성했다(0.25 크레딧).
 - 검증: `r59_alt7`, `r60_form`, `r61_slug`, `r62_seal`, `r63_target`, 기존 회귀.
+
+## 변경 기록 — 쉼터 장터·보스 끼임·트리 비용·비급첩·소품/영물 톤 (2026-10-14)
+- 쉼터: 주모 삭제 → 보부상 장터. 숨은 환약을 엽전으로 산다 (25 → 살 때마다 +15). 쉼터에서 수련점은 주지 않는다.
+- 보스 끼임: 보스를 결계 안쪽으로 묶고, 걷는 보스가 벽 속에 있으면 밀어낸다 (r64: 120프레임 중 0 끼임).
+- 트리 비용: 뿌리·1단 1점, 2·3단 2점, 4단·합류 3점 → 갈래 하나 8점, 전체 31점. 수련서 가격 60 + 30×구매 수.
+- 비급첩: 고르기 칩 대신 이 판에 익힌 수련 전체를 그대로 담는다 (형·서약 포함). 'undefined개까지' 문구 삭제.
+- 봉인 지도: 가로 폰에서 지도가 늘어나던 문제 수정 (폭을 높이 기준으로 제한).
+- 소품: 관문당 장면 최대 3곳, 간격 24칸, 1~2개씩. 그림은 먹빛·종이색으로 재보정.
+- 영물: 시트 가장자리의 흰 테두리·흰 점을 투명하게, 안쪽 흰색은 종이색으로 (_review/pet_cut.py).
